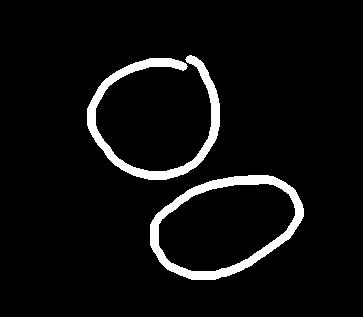
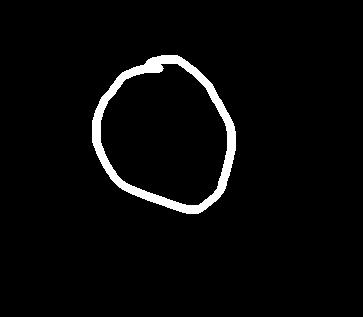
Modified app.py and image utils

Changed region(s): [[0.2424, 0.1703, 0.8485, 0.9085]]

diff --git a/utils/image_processing_utils.py b/utils/image_processing_utils.py
@@ -6,7 +6,7 @@ from sklearn.ensemble import RandomForestClassifier
 from sklearn.neighbors import KNeighborsClassifier
 
 from PIL import Image
-from see import GeneticSearch
+from see import GeneticSearch, Segmentors
 import subprocess
 
 # ------------------- Modification of segmentation ----------------------
@@ -140,9 +140,41 @@ def genetic_search(img, mask):
   
     """
         # ls and pwd added to test
-    output = subprocess.Popen(f'conda run -n env; ls; pwd ;seesearch {img}{mask}')
-    print(output)
-    return output
+    #Run a popen process 
+    
+    
+    #process = subprocess.run(f'seesearch {img}{mask}', shell=True, stdout = subprocess.PIPE, stdin=
+                               #subprocess.PIPE)
+    #output = Image.open("temp_mask.png")
+#     print("See segment done running")
+#     print(process.stdout.decode('utf-8'))
+#     print(process.stderr.decode('utf-8'))
+
+    # TODO - This is a hack we need to fix GeneticSearch to allow for single channel images
+    if  len(img.shape) == 2:
+
+        ThreeChan = np.zeros([img.shape[0], img.shape[1], 3])
+        ThreeChan[:,:,0] = img;
+        ThreeChan[:,:,1] = img;
+        ThreeChan[:,:,2] = img;
+    
+    else: 
+        ThreeChan = img
+        
+    my_evolver = GeneticSearch.Evolver(ThreeChan, mask, pop_size=10)
+    population = my_evolver.run(ngen=5)
+
+    #Get the best algorithm so far
+    params = my_evolver.hof[0]
+    print('Best Individual:\n', params)
+
+    #Generate mask of best so far.
+    seg = Segmentors.algoFromParams(params)
+    best_mask = seg.evaluate(ThreeChan)
+    
+    
+    
+    return best_mask
 
 def watershed_segmentation(img, mask, sigma=4):
     """
@@ -292,7 +324,7 @@ def segmentation_generic(img, mask, mode='watershed'):
         
         im_mask = Image.fromarray(mask) #trying to convery ndarry image to actual image
         im_mask.save("mask.jpg") #this works
-        return genetic_search("img.jpg", "mask.jpg")
+        return genetic_search(img, mask)
     else:
         raise NotImplementedError
 

diff --git a/app.py b/app.py
@@ -135,12 +135,14 @@ app.layout = html.Div([
             [Input('canvas', 'json_data')],
             [State('canvas', 'image_content'),
             State('algorithm', 'value')])
-def update_figure_upload(string, image, algorithm):
+#create button to read current directory, if mask file exists in current dir, read it and display results
+def update_figure_upload(string, image, algorithm): 
     print("update figure")
     if string:
         if image is None:
             im = img
             image = img
+        # if seg exists calculate mask
         else:
             #print("Before PILImage")
             im = image_string_to_PILImage(image)
@@ -153,13 +155,7 @@ def update_figure_upload(string, image, algorithm):
         #skimage.io.imsave("medial.png", img_as_uint(imgSk))
   
         io.imsave("Snail_GT.jpg", mask)
-        #file_copy("Snail_GT.jpg", "assets/Snailcpy_GT.jpg")
 
-        #file_copy function can be removed, the code below can be called----
-        #shutil.copyfile("Snail_GT.jpg", "assets/Snailcopy1_GT.jpg") 
-      
-        
-        #import subprocess
         if mask.sum() > 0:
 
             seg = segmentation_generic(im, mask, mode=algorithm)
